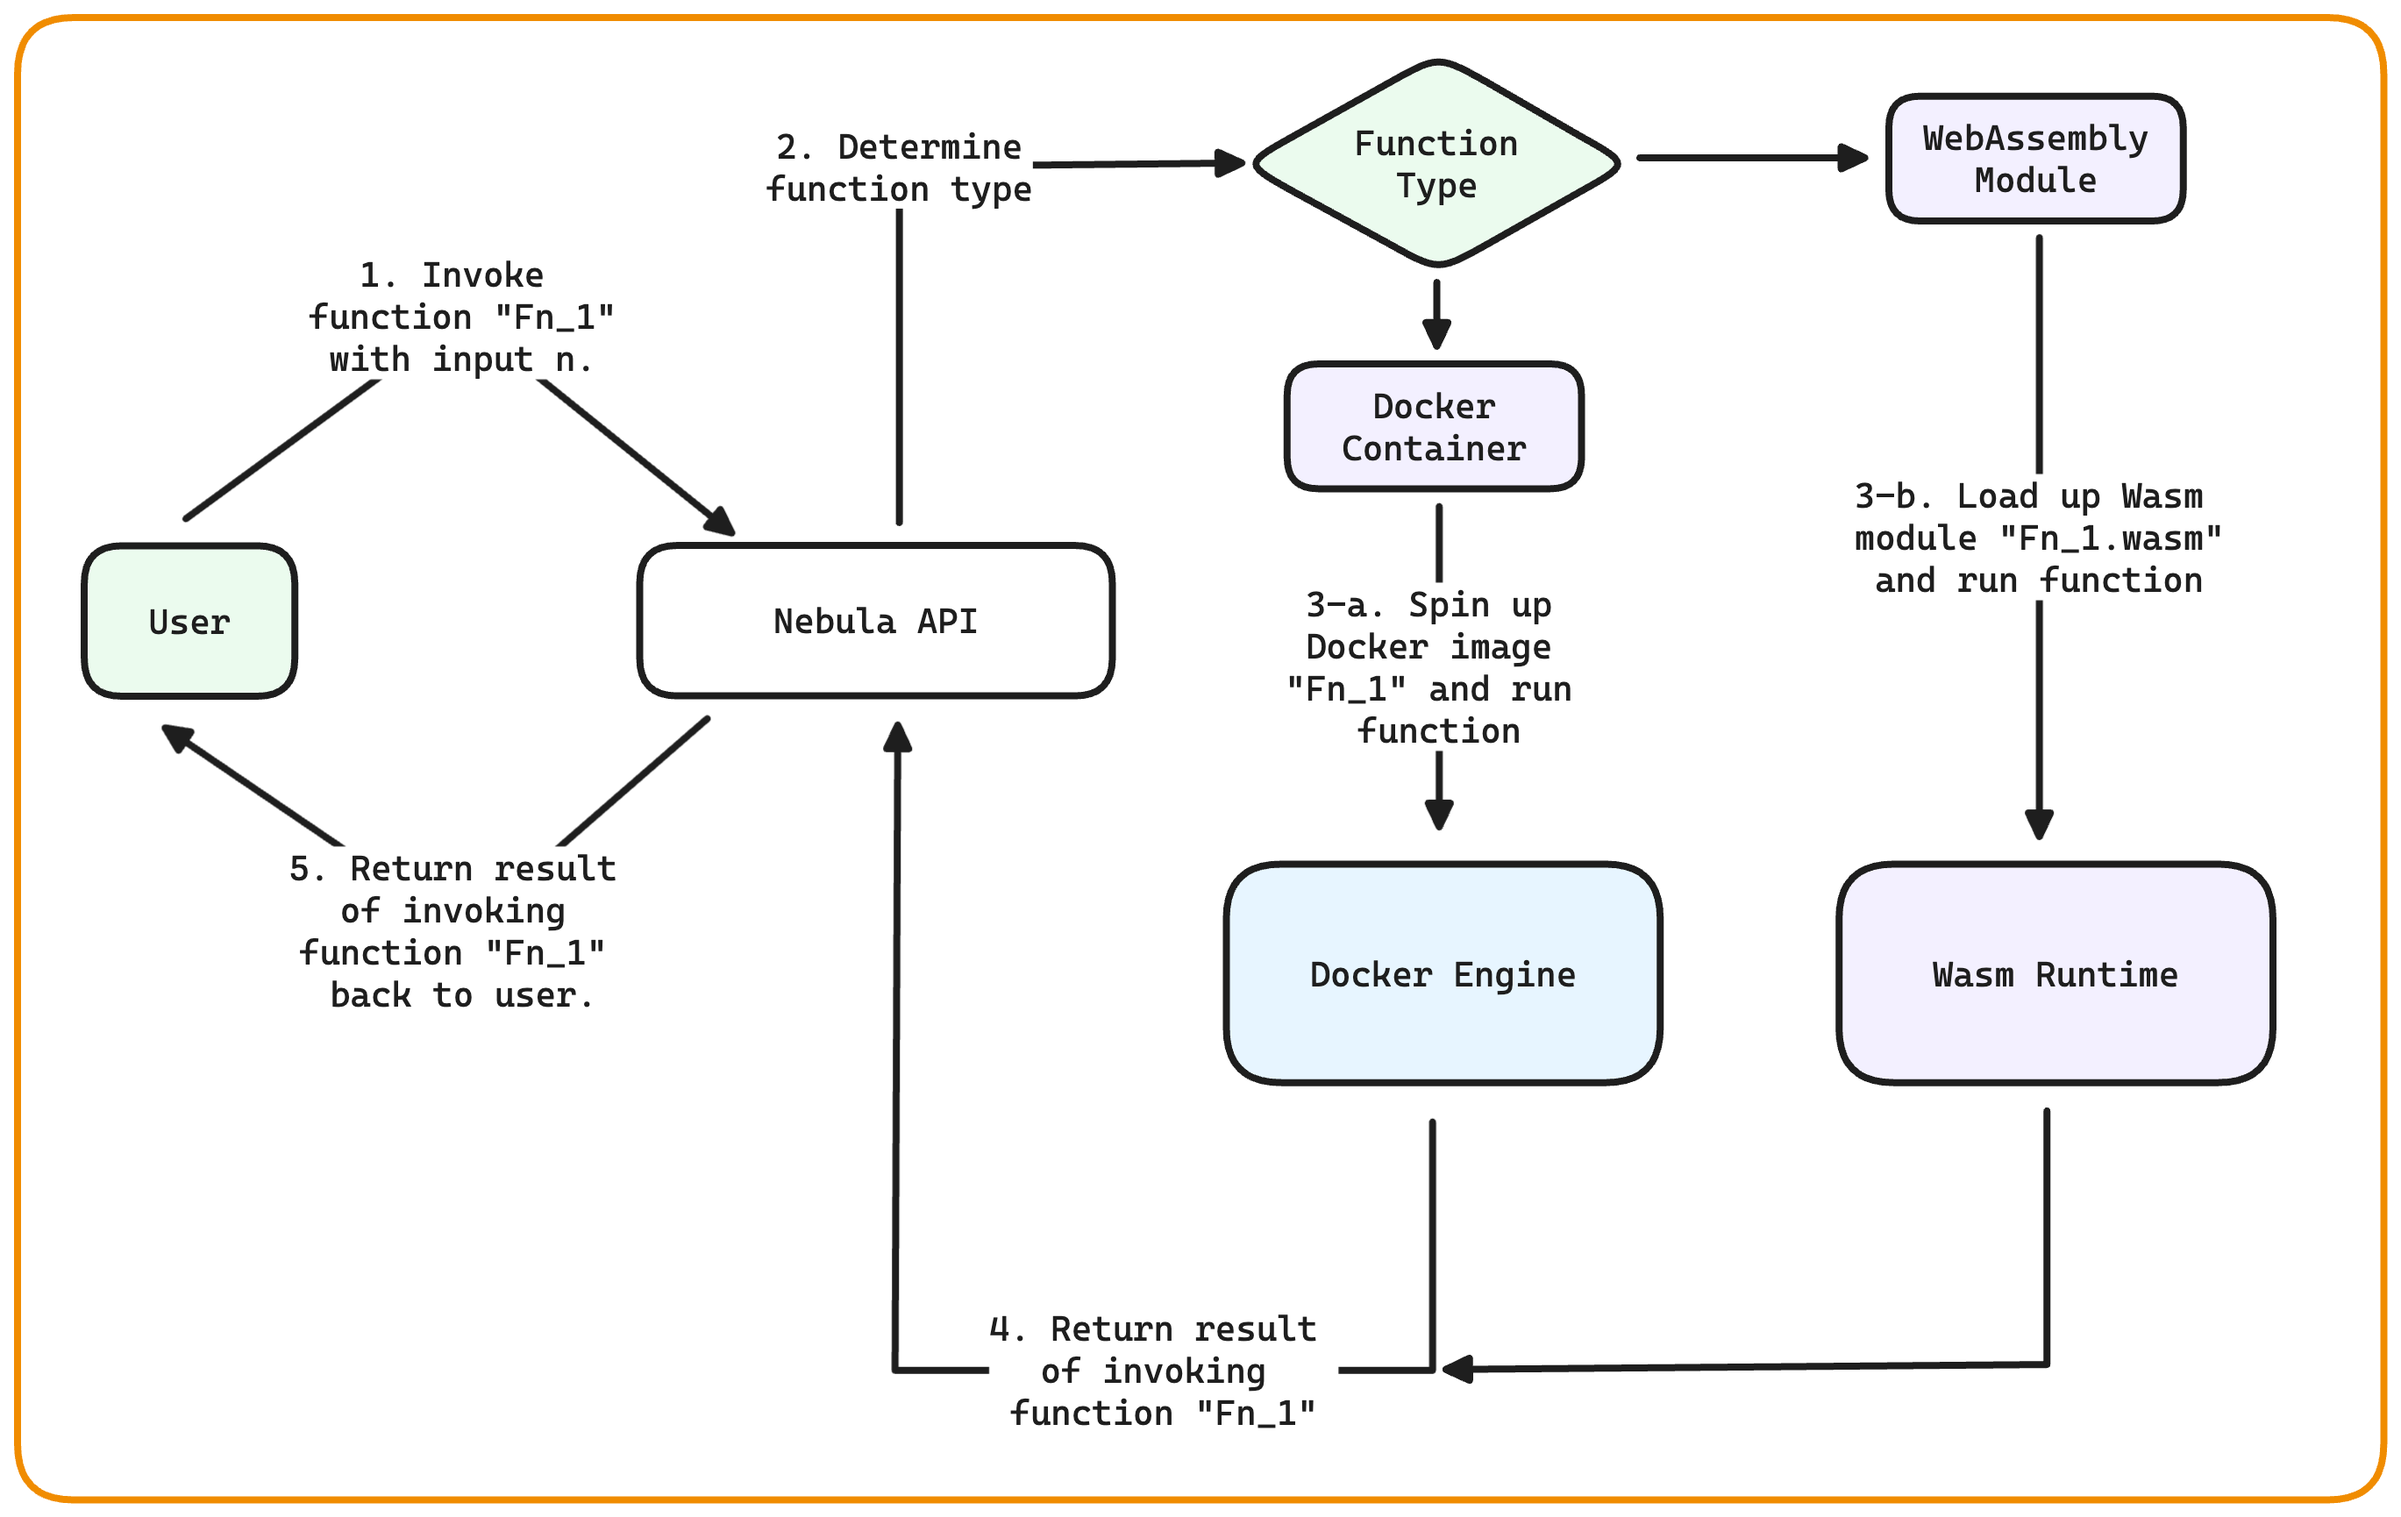
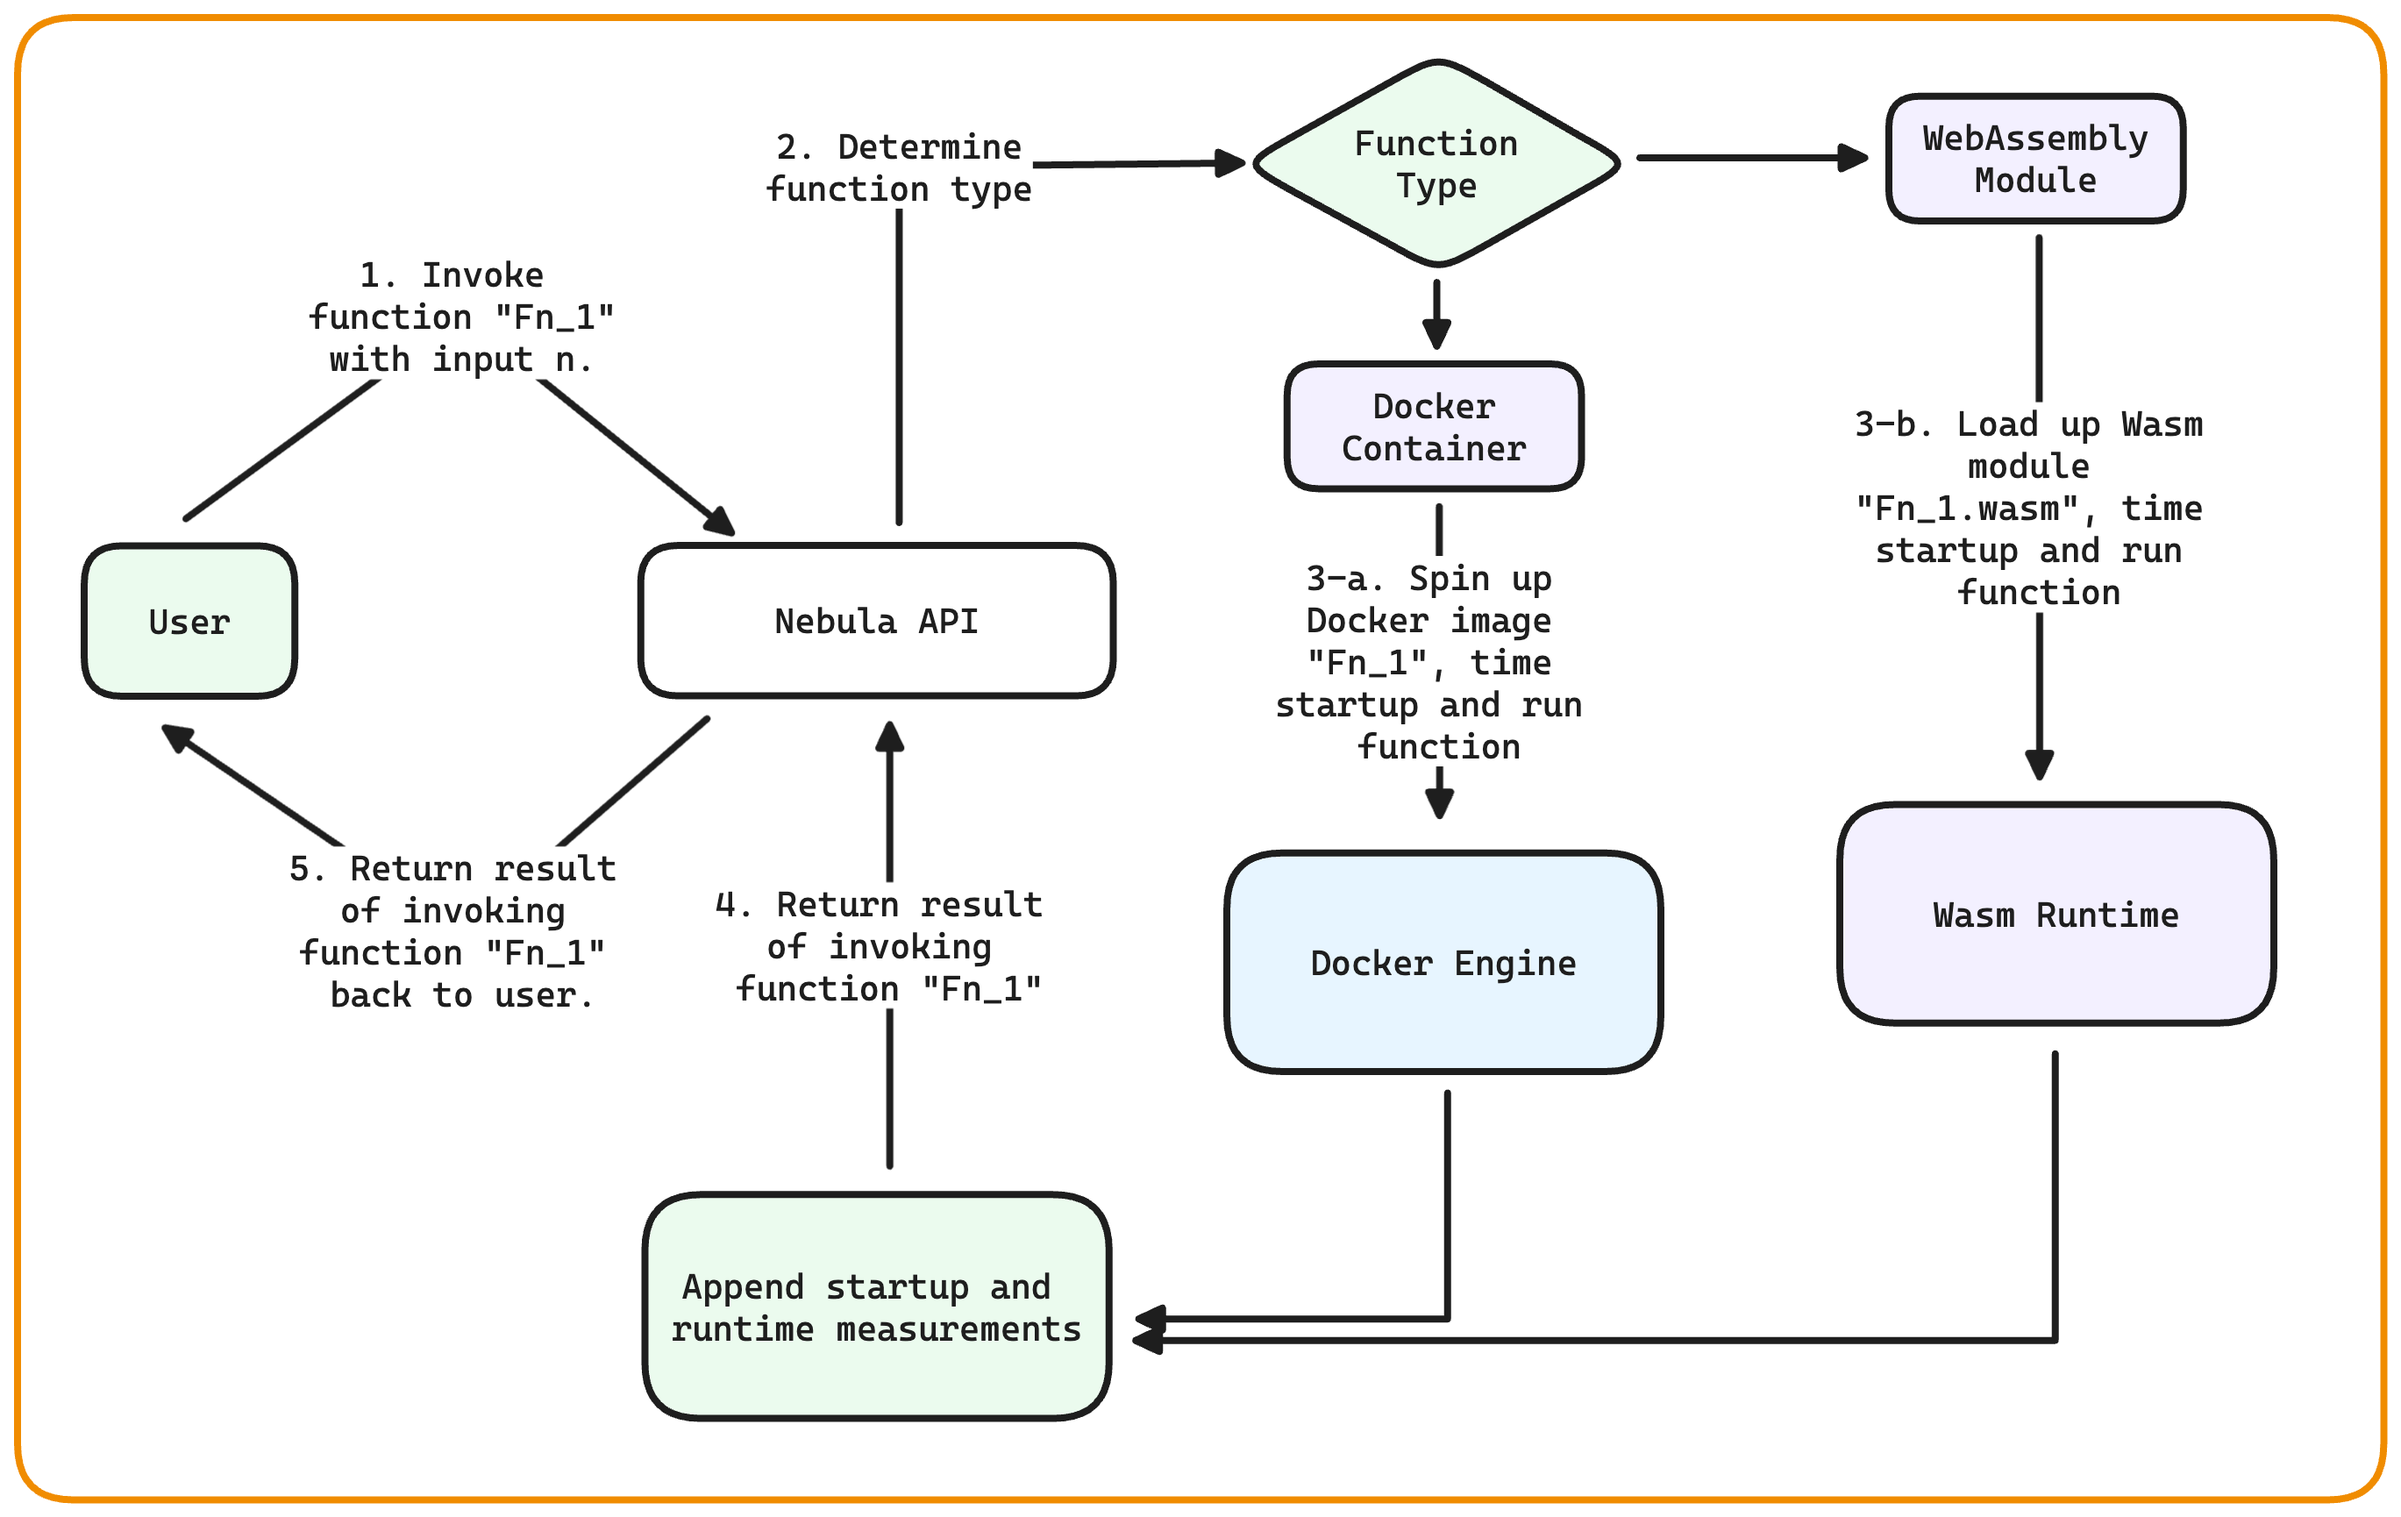
fix assets

diff --git a/thesis/assets/code/wasm_runner.rs b/thesis/assets/code/wasm_runner.rs
@@ -46,10 +46,6 @@ fn run_wasm(
       start_since_epoch,
       total_runtime: start.elapsed().as_micros(),
       end_since_epoch: start_since_epoch + total_runtime,
-      startup_percentage: ((startup_time as f64
-        / total_runtime as f64)
-        * 100.0)
-        .round(),
     },
     func_type: ModuleType::Wasm,
     func_name: func_name.to_string(),
